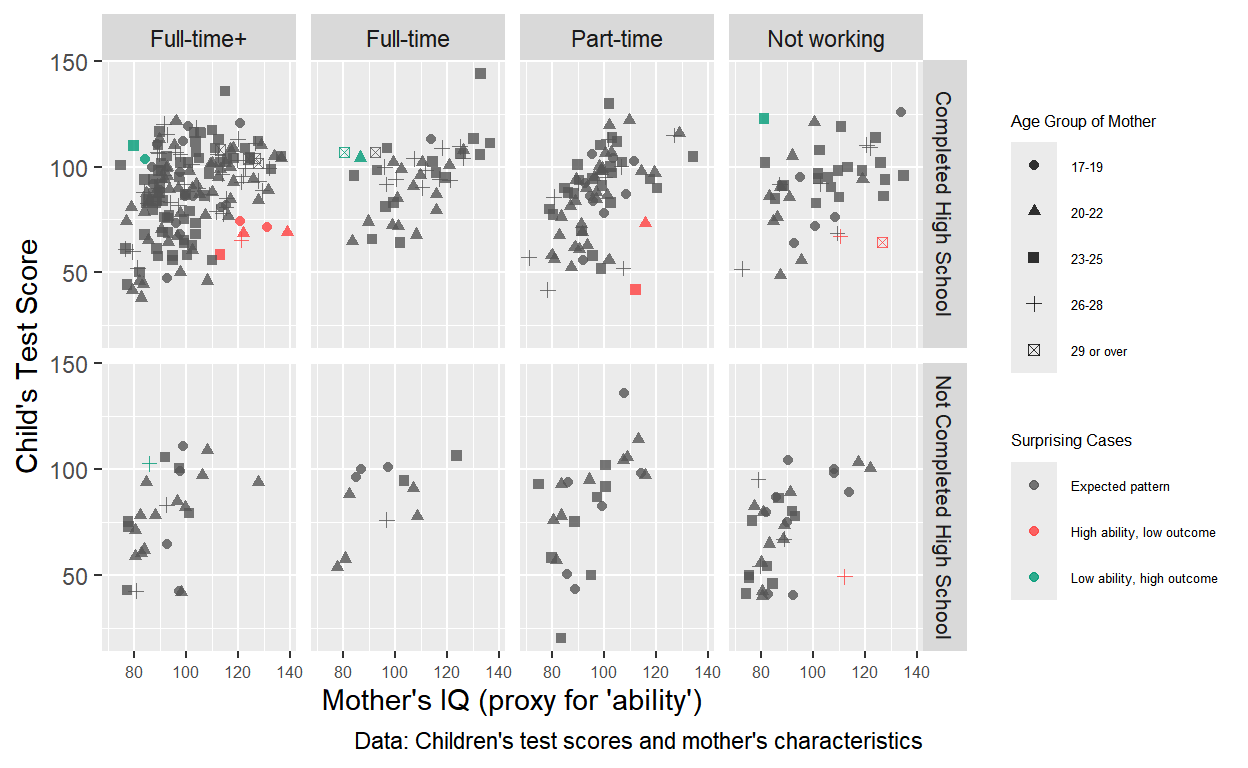
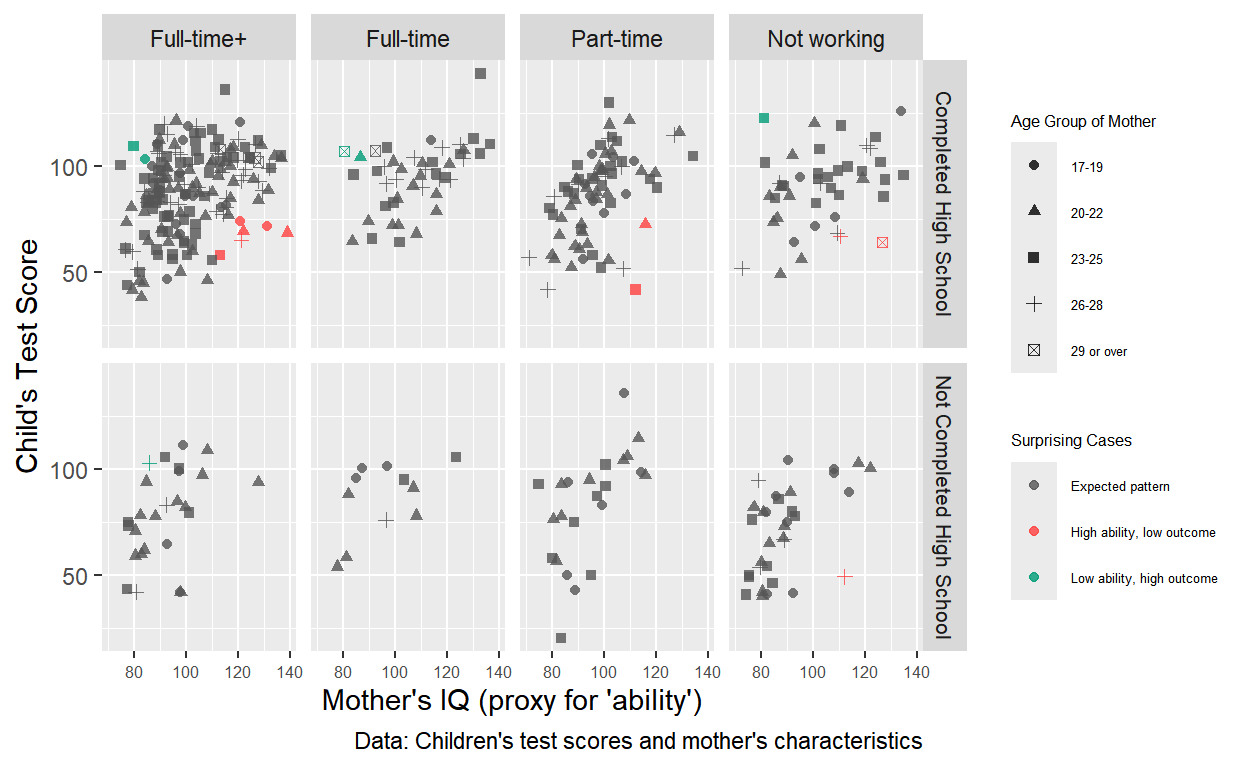
Commit

diff --git a/docs/Data-Analysis---Visualisation.html b/docs/Data-Analysis---Visualisation.html
@@ -91,27 +91,27 @@ code span.wa { color: #5e5e5e; font-style: italic; } /* Warning */
   <!--radix_placeholder_meta_tags-->
   <title>Samvit Sibal: Data Analysis &amp; Visualisation</title>
 
-  <meta property="description" itemprop="description" content="This page is a showcase of work completed for the GV300 Advanced Quantitative Political Analysis module."/>
+  <meta property="description" itemprop="description" content="This page is a showcase of data analysis work completed for the GV300 Advanced Quantitative Political Analysis module."/>
 
 
 
   <!--  https://developers.facebook.com/docs/sharing/webmasters#markup -->
   <meta property="og:title" content="Samvit Sibal: Data Analysis &amp; Visualisation"/>
   <meta property="og:type" content="article"/>
-  <meta property="og:description" content="This page is a showcase of work completed for the GV300 Advanced Quantitative Political Analysis module."/>
+  <meta property="og:description" content="This page is a showcase of data analysis work completed for the GV300 Advanced Quantitative Political Analysis module."/>
   <meta property="og:locale" content="en_US"/>
   <meta property="og:site_name" content="Samvit Sibal"/>
 
   <!--  https://dev.twitter.com/cards/types/summary -->
   <meta property="twitter:card" content="summary"/>
   <meta property="twitter:title" content="Samvit Sibal: Data Analysis &amp; Visualisation"/>
-  <meta property="twitter:description" content="This page is a showcase of work completed for the GV300 Advanced Quantitative Political Analysis module."/>
+  <meta property="twitter:description" content="This page is a showcase of data analysis work completed for the GV300 Advanced Quantitative Political Analysis module."/>
 
   <!--/radix_placeholder_meta_tags-->
   <!--radix_placeholder_rmarkdown_metadata-->
 
   <script type="text/json" id="radix-rmarkdown-metadata">
-  {"type":"list","attributes":{"names":{"type":"character","attributes":{},"value":["title","description","output"]}},"value":[{"type":"character","attributes":{},"value":["Data Analysis & Visualisation"]},{"type":"character","attributes":{},"value":["This page is a showcase of work completed for the GV300 Advanced Quantitative Political Analysis module.\n"]},{"type":"character","attributes":{},"value":["distill::distill_article"]}]}
+  {"type":"list","attributes":{"names":{"type":"character","attributes":{},"value":["title","description","output"]}},"value":[{"type":"character","attributes":{},"value":["Data Analysis & Visualisation"]},{"type":"character","attributes":{},"value":["This page is a showcase of data analysis work completed for the GV300 Advanced Quantitative Political Analysis module.\n"]},{"type":"character","attributes":{},"value":["distill::distill_article"]}]}
   </script>
   <!--/radix_placeholder_rmarkdown_metadata-->
   <!--radix_placeholder_navigation_in_header-->
@@ -2432,7 +2432,7 @@ code span.wa { color: #5e5e5e; font-style: italic; } /* Warning */
 <!--radix_placeholder_front_matter-->
 
 <script id="distill-front-matter" type="text/json">
-{"title":"Data Analysis & Visualisation","description":"This page is a showcase of work completed for the GV300 Advanced Quantitative Political Analysis module.","authors":[]}
+{"title":"Data Analysis & Visualisation","description":"This page is a showcase of data analysis work completed for the GV300 Advanced Quantitative Political Analysis module.","authors":[]}
 </script>
 
 <!--/radix_placeholder_front_matter-->
@@ -2445,7 +2445,8 @@ code span.wa { color: #5e5e5e; font-style: italic; } /* Warning */
 <div class="nav-right">
 <a href="index.html">Home</a>
 <a href="about.html">About</a>
-<a href="GV300-showcase.html">GV300 Showcase</a>
+<a href="Data-Analysis---Visualisation.html">Data Analysis &amp; Visualisation</a>
+<a href="Text-Analysis.html">Text Analysis</a>
 <a href="javascript:void(0);" class="nav-toggle">&#9776;</a>
 </div>
 </nav>
@@ -2459,7 +2460,7 @@ code span.wa { color: #5e5e5e; font-style: italic; } /* Warning */
 
 <!--radix_placeholder_categories-->
 <!--/radix_placeholder_categories-->
-<p><p>This page is a showcase of work completed for the GV300 Advanced Quantitative Political Analysis module.</p></p>
+<p><p>This page is a showcase of data analysis work completed for the GV300 Advanced Quantitative Political Analysis module.</p></p>
 </div>
 
 